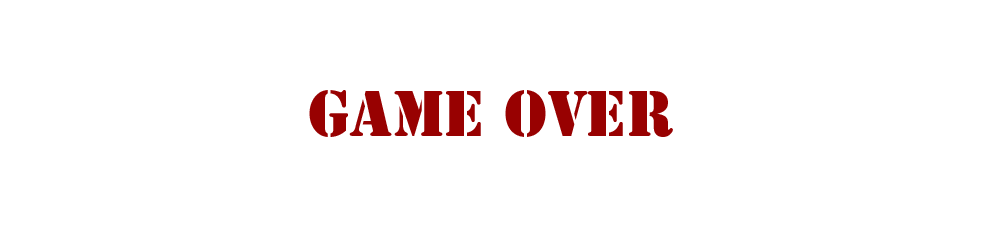
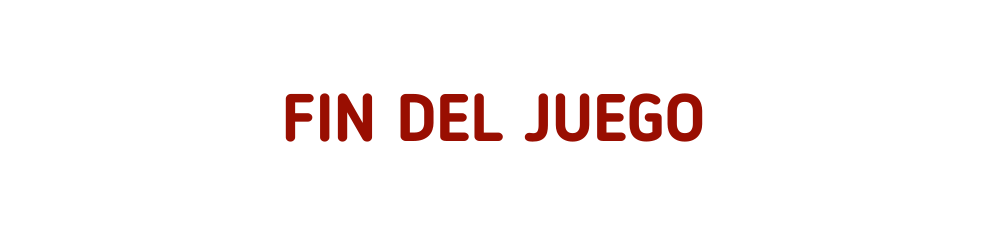
Traducción 1.0
Modificación de comentarios y elementos en pantalla. Sustitución de 1 recurso visual. Creación de README.md

Changed region(s): [[0.2733, 0.3872, 0.7287, 0.6255]]

diff --git a/sketch.js b/sketch.js
@@ -103,16 +103,16 @@ function draw() {
     restart.x=camera.position.x;
     gameOver.visible = true;
     restart.visible = true;
-    //set velcity of each game object to 0
+    // Establece la velocidad de cada objeto de juego a 0
     kangaroo.velocityY = 0;
     jungle.velocityX = 0;
     obstaclesGroup.setVelocityXEach(0);
     shrubsGroup.setVelocityXEach(0);
 
-    //change the trex animation
+    // Cambia la animación trex
     kangaroo.changeAnimation("collided",kangaroo_collided);
     
-    //set lifetime of the game objects so that they are never destroyed
+    // Establece el tiempo de vida de los objetos de juego para que nunca sean destruidos
     obstaclesGroup.setLifetimeEach(-1);
     shrubsGroup.setLifetimeEach(-1);
     
@@ -122,16 +122,16 @@ function draw() {
   }
 
   else if (gameState === WIN) {
-    //set velcity of each game object to 0
+    // Establece la velocidad de cada objeto de juego a 0
     jungle.velocityX = 0;
     kangaroo.velocityY = 0;
     obstaclesGroup.setVelocityXEach(0);
     shrubsGroup.setVelocityXEach(0);
     
-    //change the kangaroo animation
+    // Cambia la animación del canguro
     kangaroo.changeAnimation("collided",kangaroo_collided);
 
-    //set lifetime of the game objects so that they are never destroyed
+    // Establece el tiempo de vida de los objetos de juego para que nunca sean destruidos
     obstaclesGroup.setLifetimeEach(-1);
     shrubsGroup.setLifetimeEach(-1);
   }
@@ -142,20 +142,20 @@ function draw() {
   textSize(20);
   stroke(3);
   fill("black")
-  text("Score: "+ score, camera.position.x,50);
+  text("Puntuación: "+ score, camera.position.x,50);
   
   if(score >= 5){
     kangaroo.visible = false;
     textSize(30);
     stroke(3);
     fill("black");
-    text("Congragulations!! You win the game!! ", 70,200);
+    text("¡Felicitaciones! ¡Ganaste el juego!", 70,200);
     gameState = WIN;
   }
 }
 
 function spawnShrubs() {
-  //write code here to spawn the clouds
+  // Escribe código aquí para generar las nubes
   if (frameCount % 150 === 0) {
 
     var shrub = createSprite(camera.position.x+500,330,40,10);
@@ -174,13 +174,13 @@ function spawnShrubs() {
       default: break;
     }
     
-    //assign scale and lifetime to the shrub           
+    // Asigna dimensión y tiempo de vida a los arbustos
     shrub.scale = 0.05;
-     //assign lifetime to the variable
+    // Asigna tiempo de vida a las variables
     shrub.lifetime = 400;
     
     shrub.setCollider("rectangle",0,0,shrub.width/2,shrub.height/2)
-    //add each cloud to the group
+    // Agrega cada nube al grupo
     shrubsGroup.add(shrub);
     
   }
@@ -195,10 +195,10 @@ function spawnObstacles() {
     obstacle.addImage(obstacle1);
     obstacle.velocityX = -(6 + 3*score/100)
     obstacle.scale = 0.15;
-    //assign scale and lifetime to the obstacle           
+    // Asigna dimensión y tiempo de vida al obstáculo
 
     obstacle.lifetime = 400;
-    //add each obstacle to the group
+    // Agrega cada obstáculo al grupo
     obstaclesGroup.add(obstacle);
     
   }

diff --git a/README.md b/README.md
@@ -1,0 +1,7 @@
+# PROC42-1_4-solucion-proyectoPB
+Referencia de la maestra - Solución del proyecto.  
+Canguro. Etapa 2.  
+  
+Proyect Booster  
+  
+### Texto en inglés: kangroo-in-jungle-2
